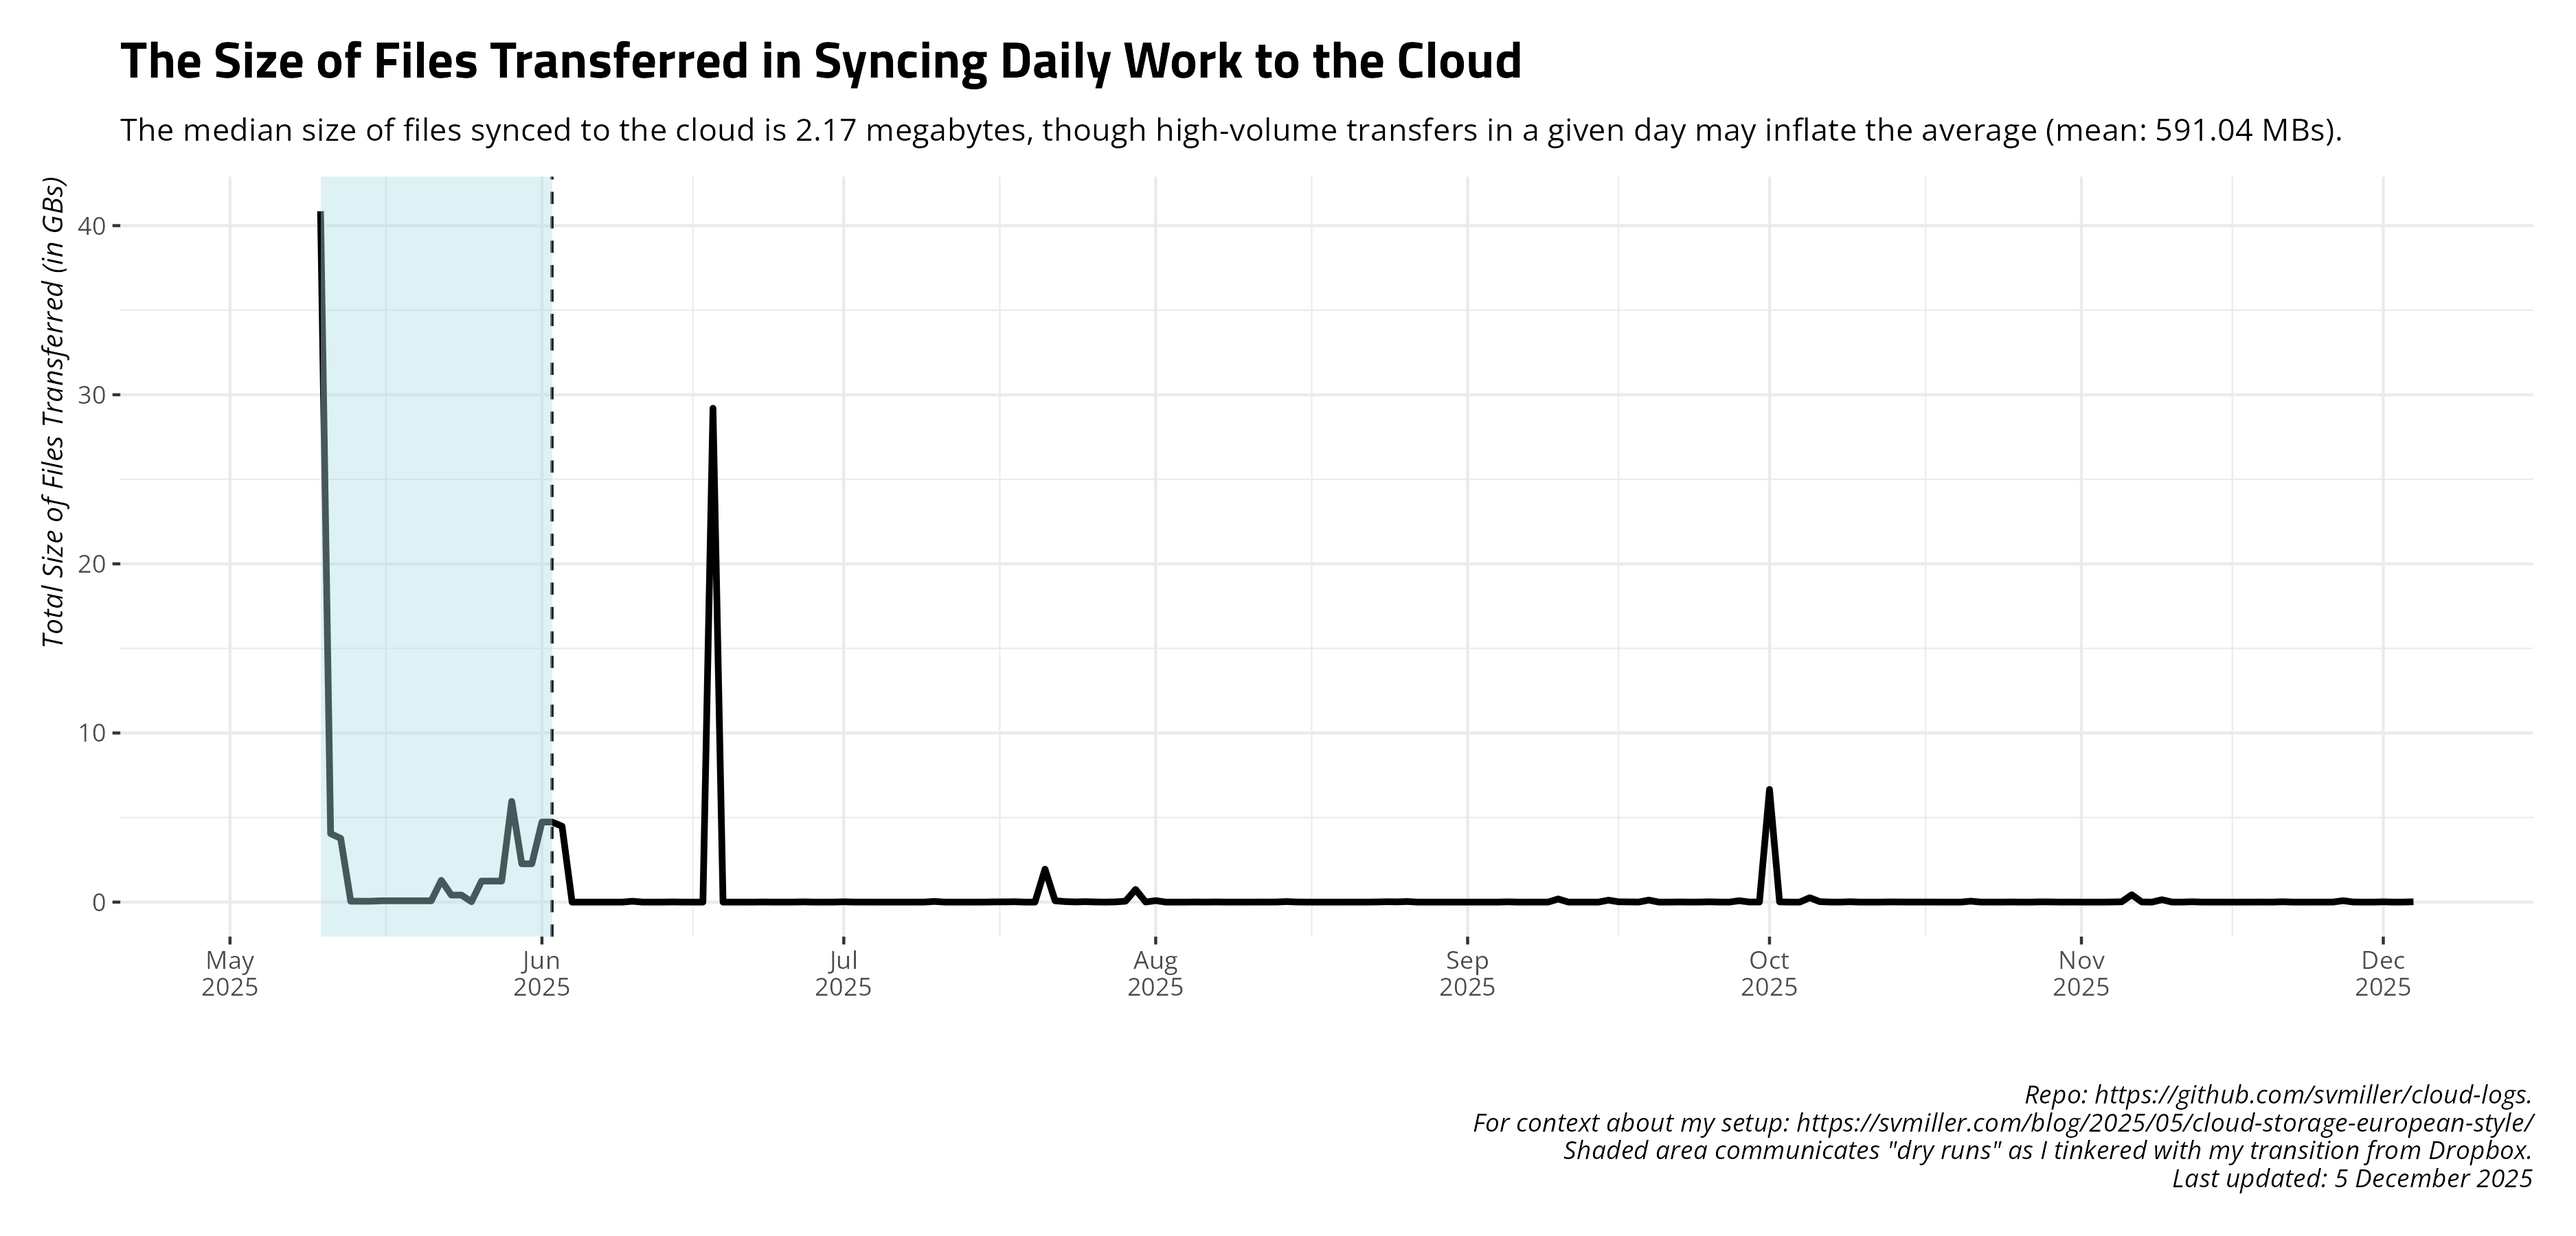
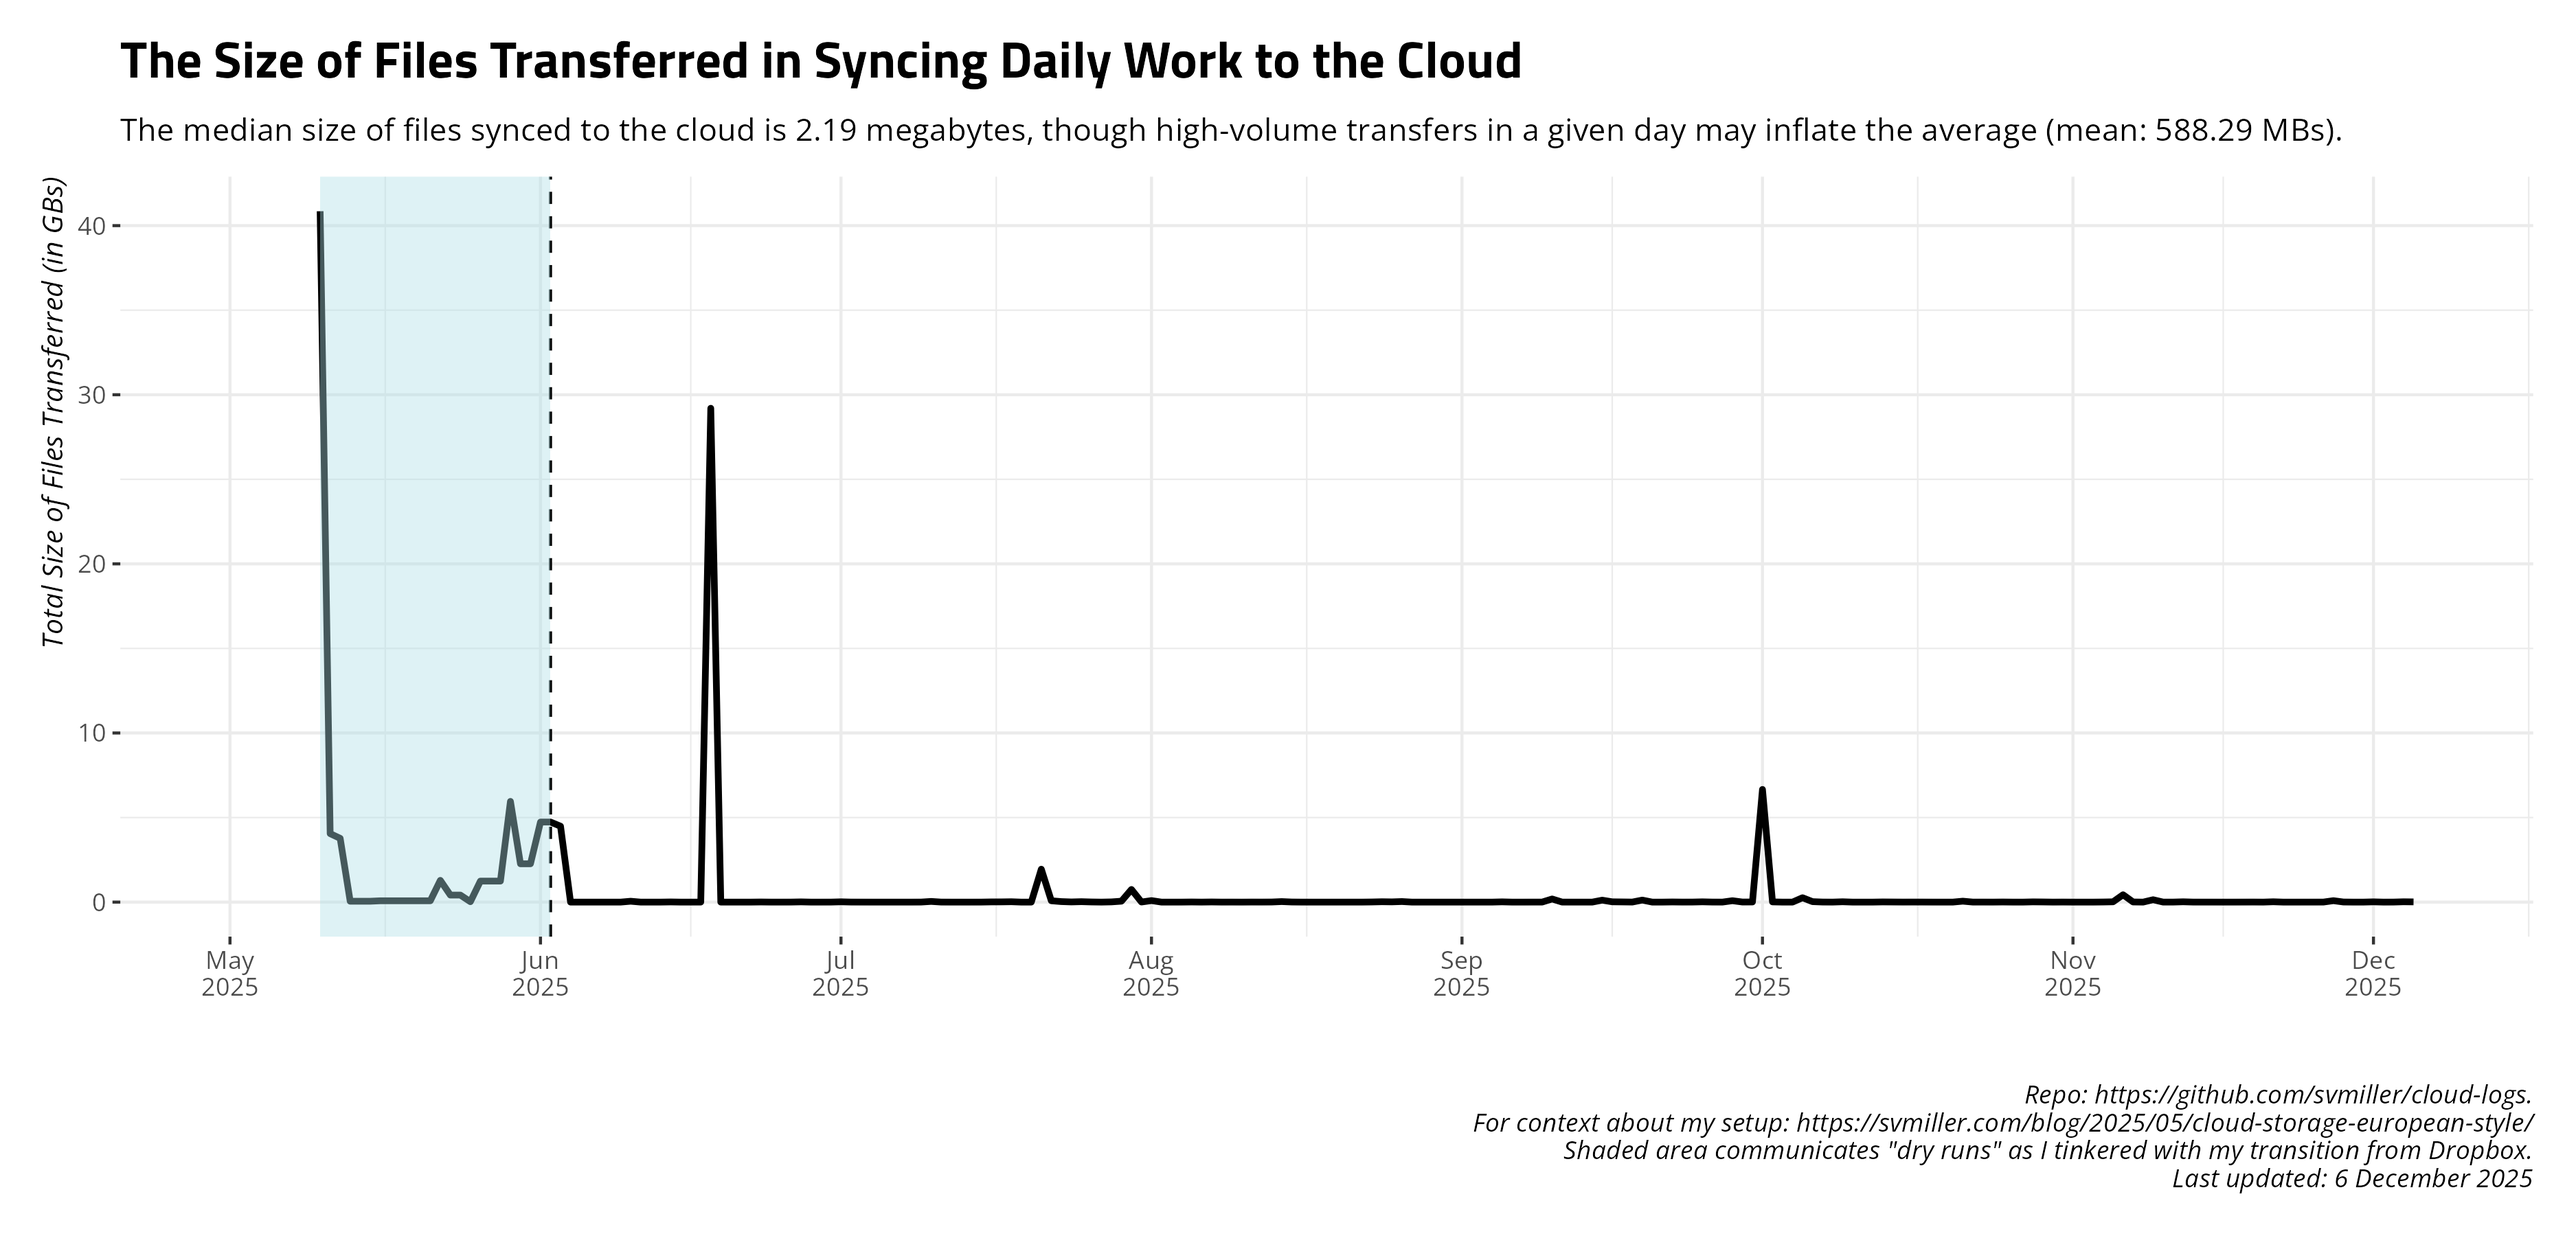
Date: 2025-12-06 09:00:17. Hi mom!

diff --git a/README.md b/README.md
@@ -27,17 +27,17 @@ and uploads to Github.
     #> # A tibble: 14 × 4
     #>    date       ftransfer stransfer   elapsed
     #>    <date>         <dbl> <chr>       <chr>  
-    #>  1 2025-11-21        96 19.696 MiB  4m13.3s
-    #>  2 2025-11-22         0 <NA>        4m57.3s
-    #>  3 2025-11-23         0 <NA>        4m58.4s
-    #>  4 2025-11-24         9 381.388 KiB 4m58.9s
-    #>  5 2025-11-25        46 877.675 KiB 4m57.2s
-    #>  6 2025-11-26       144 2.174 MiB   4m11.5s
-    #>  7 2025-11-27        71 85.606 MiB  4m41.6s
-    #>  8 2025-11-28       104 5.950 MiB   4m45.0s
-    #>  9 2025-11-29         2 3.240 KiB   5m0.7s 
-    #> 10 2025-11-30         7 58.153 KiB  4m59.8s
-    #> 11 2025-12-01        85 15.170 MiB  4m53.8s
-    #> 12 2025-12-02         9 18.048 KiB  4m59.7s
-    #> 13 2025-12-03        36 2.274 MiB   5m0.1s 
-    #> 14 2025-12-04       345 19.447 MiB  5m4.9s
+    #>  1 2025-11-22         0 <NA>        4m57.3s
+    #>  2 2025-11-23         0 <NA>        4m58.4s
+    #>  3 2025-11-24         9 381.388 KiB 4m58.9s
+    #>  4 2025-11-25        46 877.675 KiB 4m57.2s
+    #>  5 2025-11-26       144 2.174 MiB   4m11.5s
+    #>  6 2025-11-27        71 85.606 MiB  4m41.6s
+    #>  7 2025-11-28       104 5.950 MiB   4m45.0s
+    #>  8 2025-11-29         2 3.240 KiB   5m0.7s 
+    #>  9 2025-11-30         7 58.153 KiB  4m59.8s
+    #> 10 2025-12-01        85 15.170 MiB  4m53.8s
+    #> 11 2025-12-02         9 18.048 KiB  4m59.7s
+    #> 12 2025-12-03        36 2.274 MiB   5m0.1s 
+    #> 13 2025-12-04       345 19.447 MiB  5m4.9s 
+    #> 14 2025-12-05        36 13.252 MiB  4m13.1s
